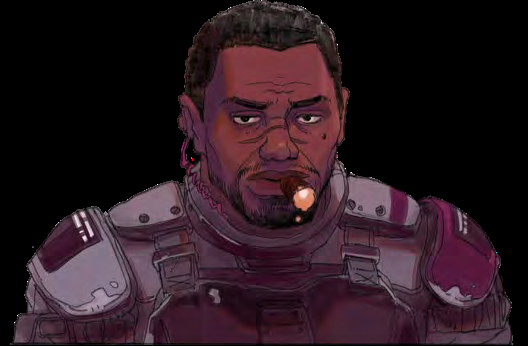
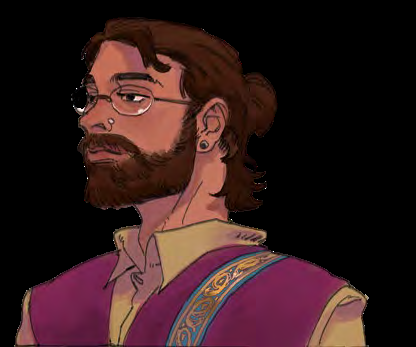
feat: all five NPC portraits in Vida a Bordo (and fix a mislabel)
The book has portraits for all five people of interest. The armored
cigar-smoking marine previously shipped as npc-bannerjee.png is actually
Sgt. Garcia — renamed to npc-garcia.png; the real Bannerjee (diplomatic
sash, p12 second image) and Rio (blue NHP avatar with headset, p11
second image) extracted and added. Every paragraph in Pessoas de
Interesse now has its portrait; reference-vs-file check passes for all
8 image refs.

diff --git a/src/assets/events/001.md b/src/assets/events/001.md
@@ -21,7 +21,11 @@ Vocês foram destacados para a Rio Grande logo após se formarem na academia. Es
 
 **Primeiro-Tenente Alex Kim** *(ele/dele)* — Imediato, promovido há relativamente pouco tempo e ansioso para provar seu valor (ansioso demais, dizem alguns, após mais um discurso motivacional). Olhar atento aos detalhes e domínio de táticas; campeão incontestável da nave no jogo de cartas Kapkat. Com a capitã em terra, **o comando é dele.**
 
+![Rio, PNH de bordo](/uploads/npc-rio.png)
+
 **Rio, PNH de bordo** *(ela/dela)* — A personalidade paracausal da classe TÁLASSA da nave: extrovertida, alegre, com queda por dramas da omninet e uma das poucas parceiras de xadrez que o 1º Ten. Kim aprecia. Em combate, adota sua "cara de jogo": coordena defesas de ponto, contramedidas, subalternos robóticos e as alas de caças e mechas.
+
+![Terceiro-Sargento Omari Garcia](/uploads/npc-garcia.png)
 
 **Terceiro-Sargento Omari Garcia** *(ele/dele)* — Fuzileiro durão e teimoso, orgulhoso da velha rivalidade fraternal com os pilotos de mecha ("ternos chiques"). Condecorado com a Medalha de Serviço Distinto dos Fuzileiros pela Disputa de Pellaran. Ferozmente leal: o primeiro a entrar no perigo e o último a sair. Gosta de pescar e de armas de fogo antigas.
 